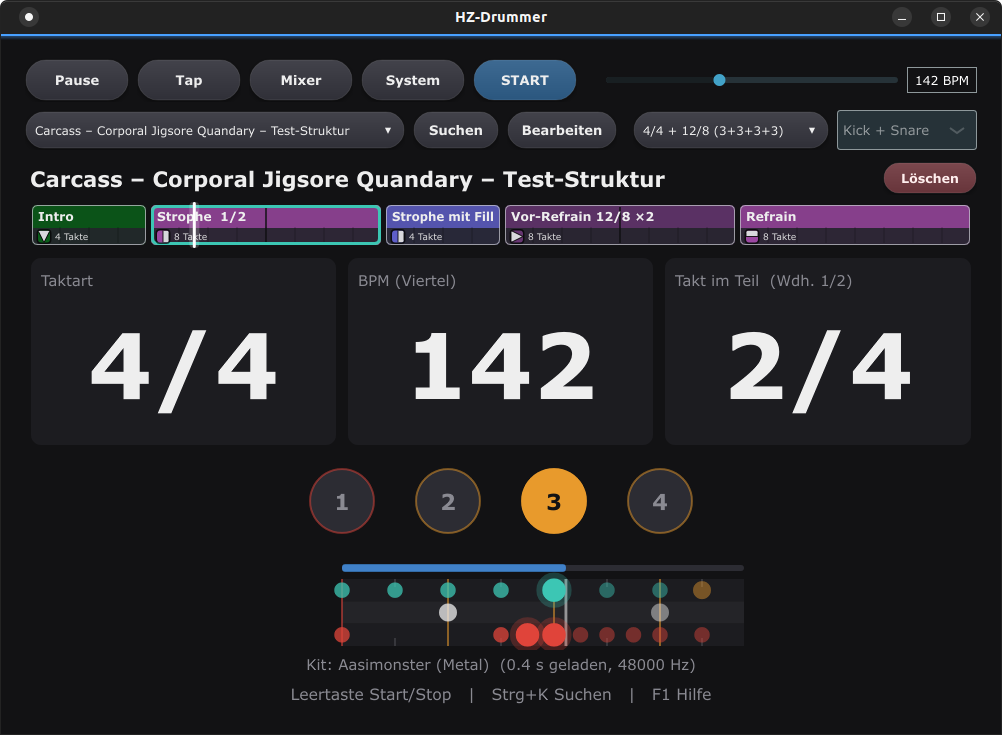
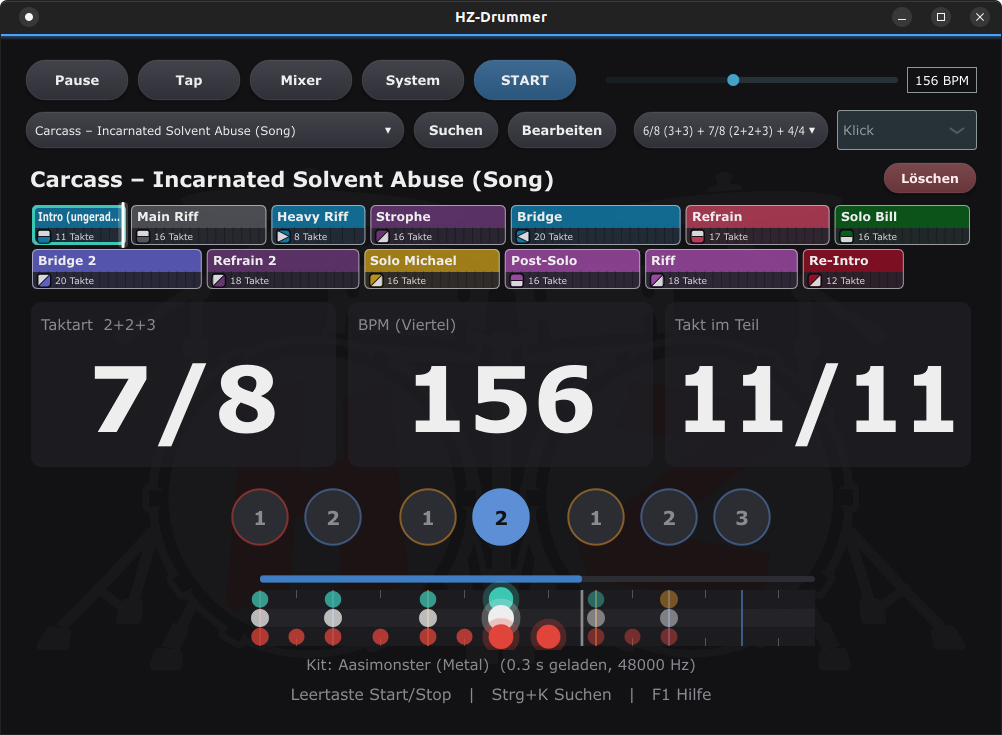
Neue Bildschirmfotos von Hauptfenster und Mixer, Pegel von "Gesamt" sichtbar
Die Bilder zeigen den Schlagzeug-Hintergrund und die Pegelanzeige im
Mixer (Metadaten entfernt). Der hervorgehobene Hintergrund der Spalte
"Gesamt" wurde über deren Pegelbalken gemalt; er kommt jetzt zuerst.

diff --git a/src/app/MixerPanel.cpp b/src/app/MixerPanel.cpp
@@ -177,6 +177,11 @@ void MixerPanel::paint (juce::Graphics& g)
 {
     g.fillAll (panelBg);
 
+    // Visually set off the total (before the meters, or it would cover the master's)
+    const auto master = strips[mix::Master].name.getBounds().getUnion (strips[mix::Master].mute.getBounds()).expanded (8, 8);
+    g.setColour (juce::Colour (0xff24242a));
+    g.fillRoundedRectangle (master.toFloat(), 8.0f);
+
     for (int ch = 0; ch < mix::NumChannels; ++ch)
     {
         const auto& s = strips[(size_t) ch];
@@ -189,11 +194,6 @@ void MixerPanel::paint (juce::Graphics& g)
         g.setColour (s.meterDb > -1.0f ? meterHot : s.meterDb > -9.0f ? meterWarm : meterOk);
         g.fillRoundedRectangle (area.withTop (y), 2.0f);
     }
-
-    // Visually set off the total
-    const auto master = strips[mix::Master].name.getBounds().getUnion (strips[mix::Master].mute.getBounds()).expanded (8, 8);
-    g.setColour (juce::Colour (0xff24242a));
-    g.fillRoundedRectangle (master.toFloat(), 8.0f);
 
     g.setColour (textDim);
     g.setFont (juce::FontOptions (15.0f));

diff --git a/README.md b/README.md
@@ -12,7 +12,7 @@ Das Programm ist ein Übungswerkzeug, kein Drum-Computer für Aufnahmen: Es soll
 </p>
 <p>
 <img src="docs/bilder/suche.png" alt="Schnellsuche mit Abzeichen" width="49%">
-<img src="docs/bilder/mixer.png" alt="Mixer je Instrument" width="49%">
+<img src="docs/bilder/mixer.png" alt="Mixer je Instrument mit Pegelanzeige" width="49%">
 </p>
 
 ## Was es kann
@@ -22,7 +22,7 @@ Das Programm ist ein Übungswerkzeug, kein Drum-Computer für Aufnahmen: Es soll
 - **Raster-Editor** („Werkstatt“): Schläge setzen, Lautstärke ziehen, Takte und Taktarten je Takt ändern, Mute und Solo je Spur, Rückgängig und Wiederholen, sofort hörbar.
 - **Arranger**: Songabläufe aus Bausteinen, mit Ablage, Taktbereichen, lokalen Varianten und Sprung auf jeden Block.
 - **Suche** über alles mit Filtern wie `7/8` oder `160-190 bpm`, Vorhören direkt im Menü.
-- **Einzählen** vor dem Start, Tap-Tempo, Mixer je Instrument, Metronom mit eigenen Taktarten.
+- **Einzählen** vor dem Start, Tap-Tempo, Mixer je Instrument mit Pegelanzeige, Metronom mit eigenen Taktarten.
 - **Papierkorb** für eigene Patterns und Songs.
 - **Community-Bausteine**: kurze Loops von Carcass und Exhorder zum Mitspielen, siehe [community/](community/).
 
